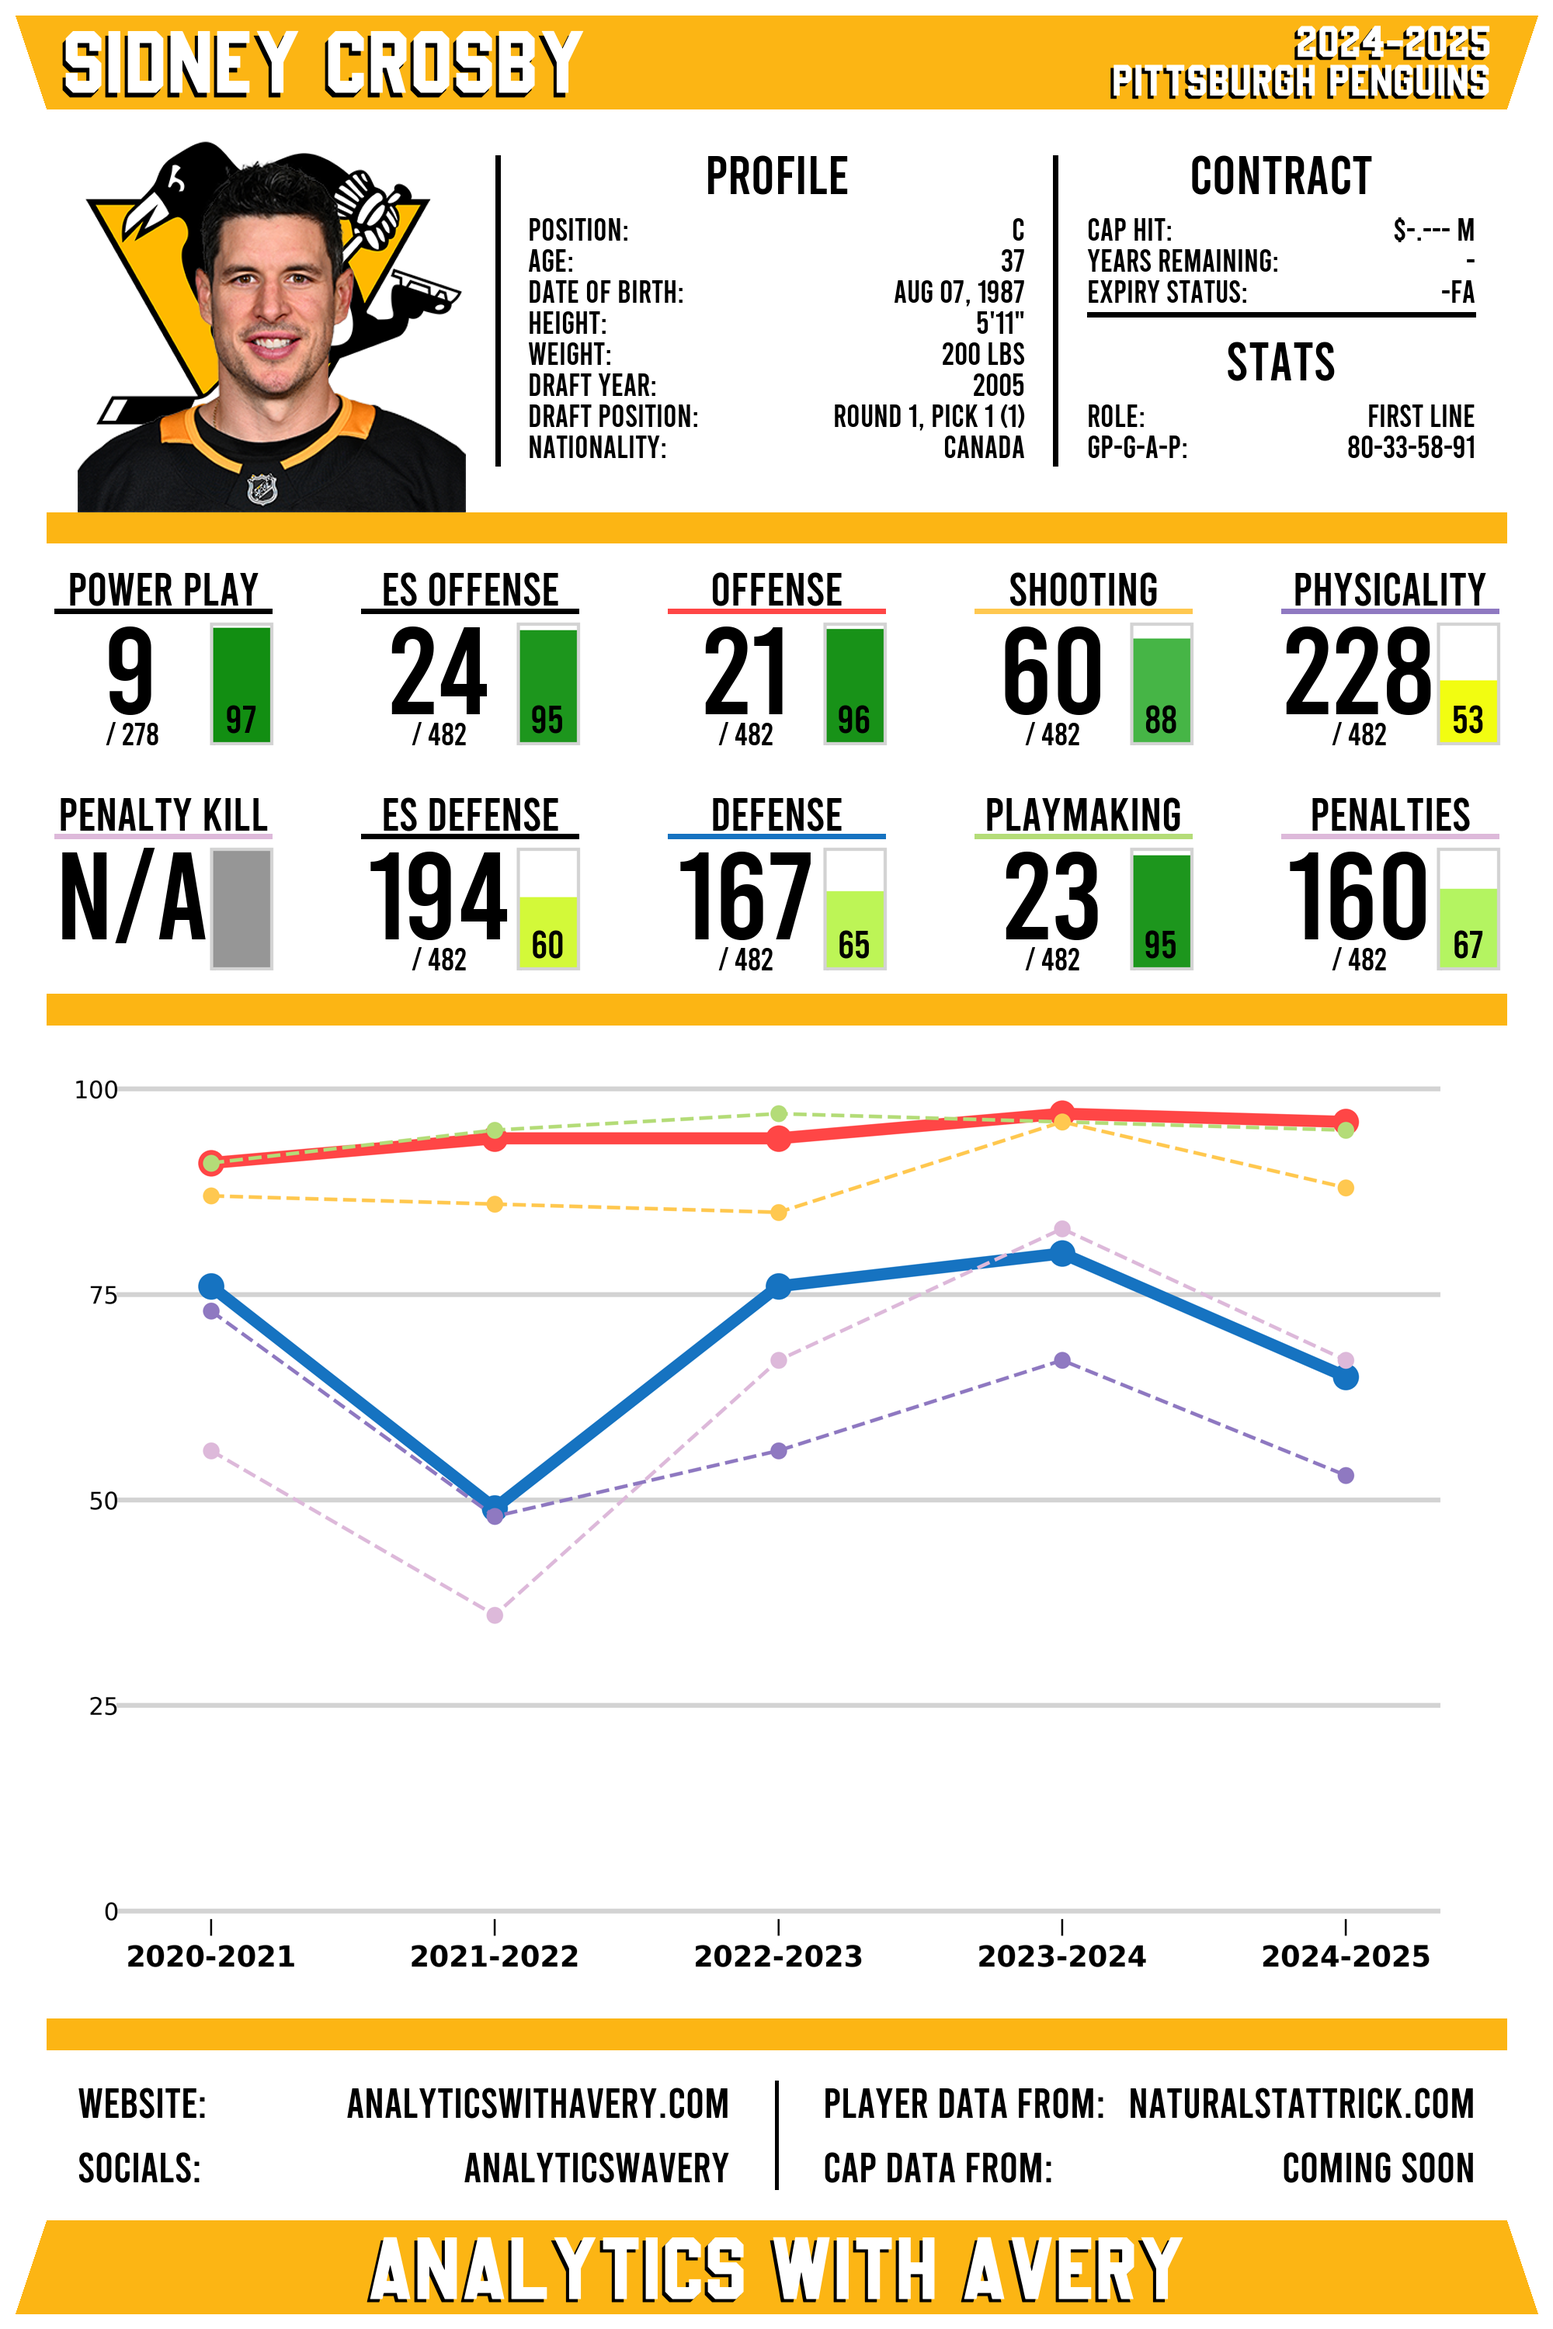
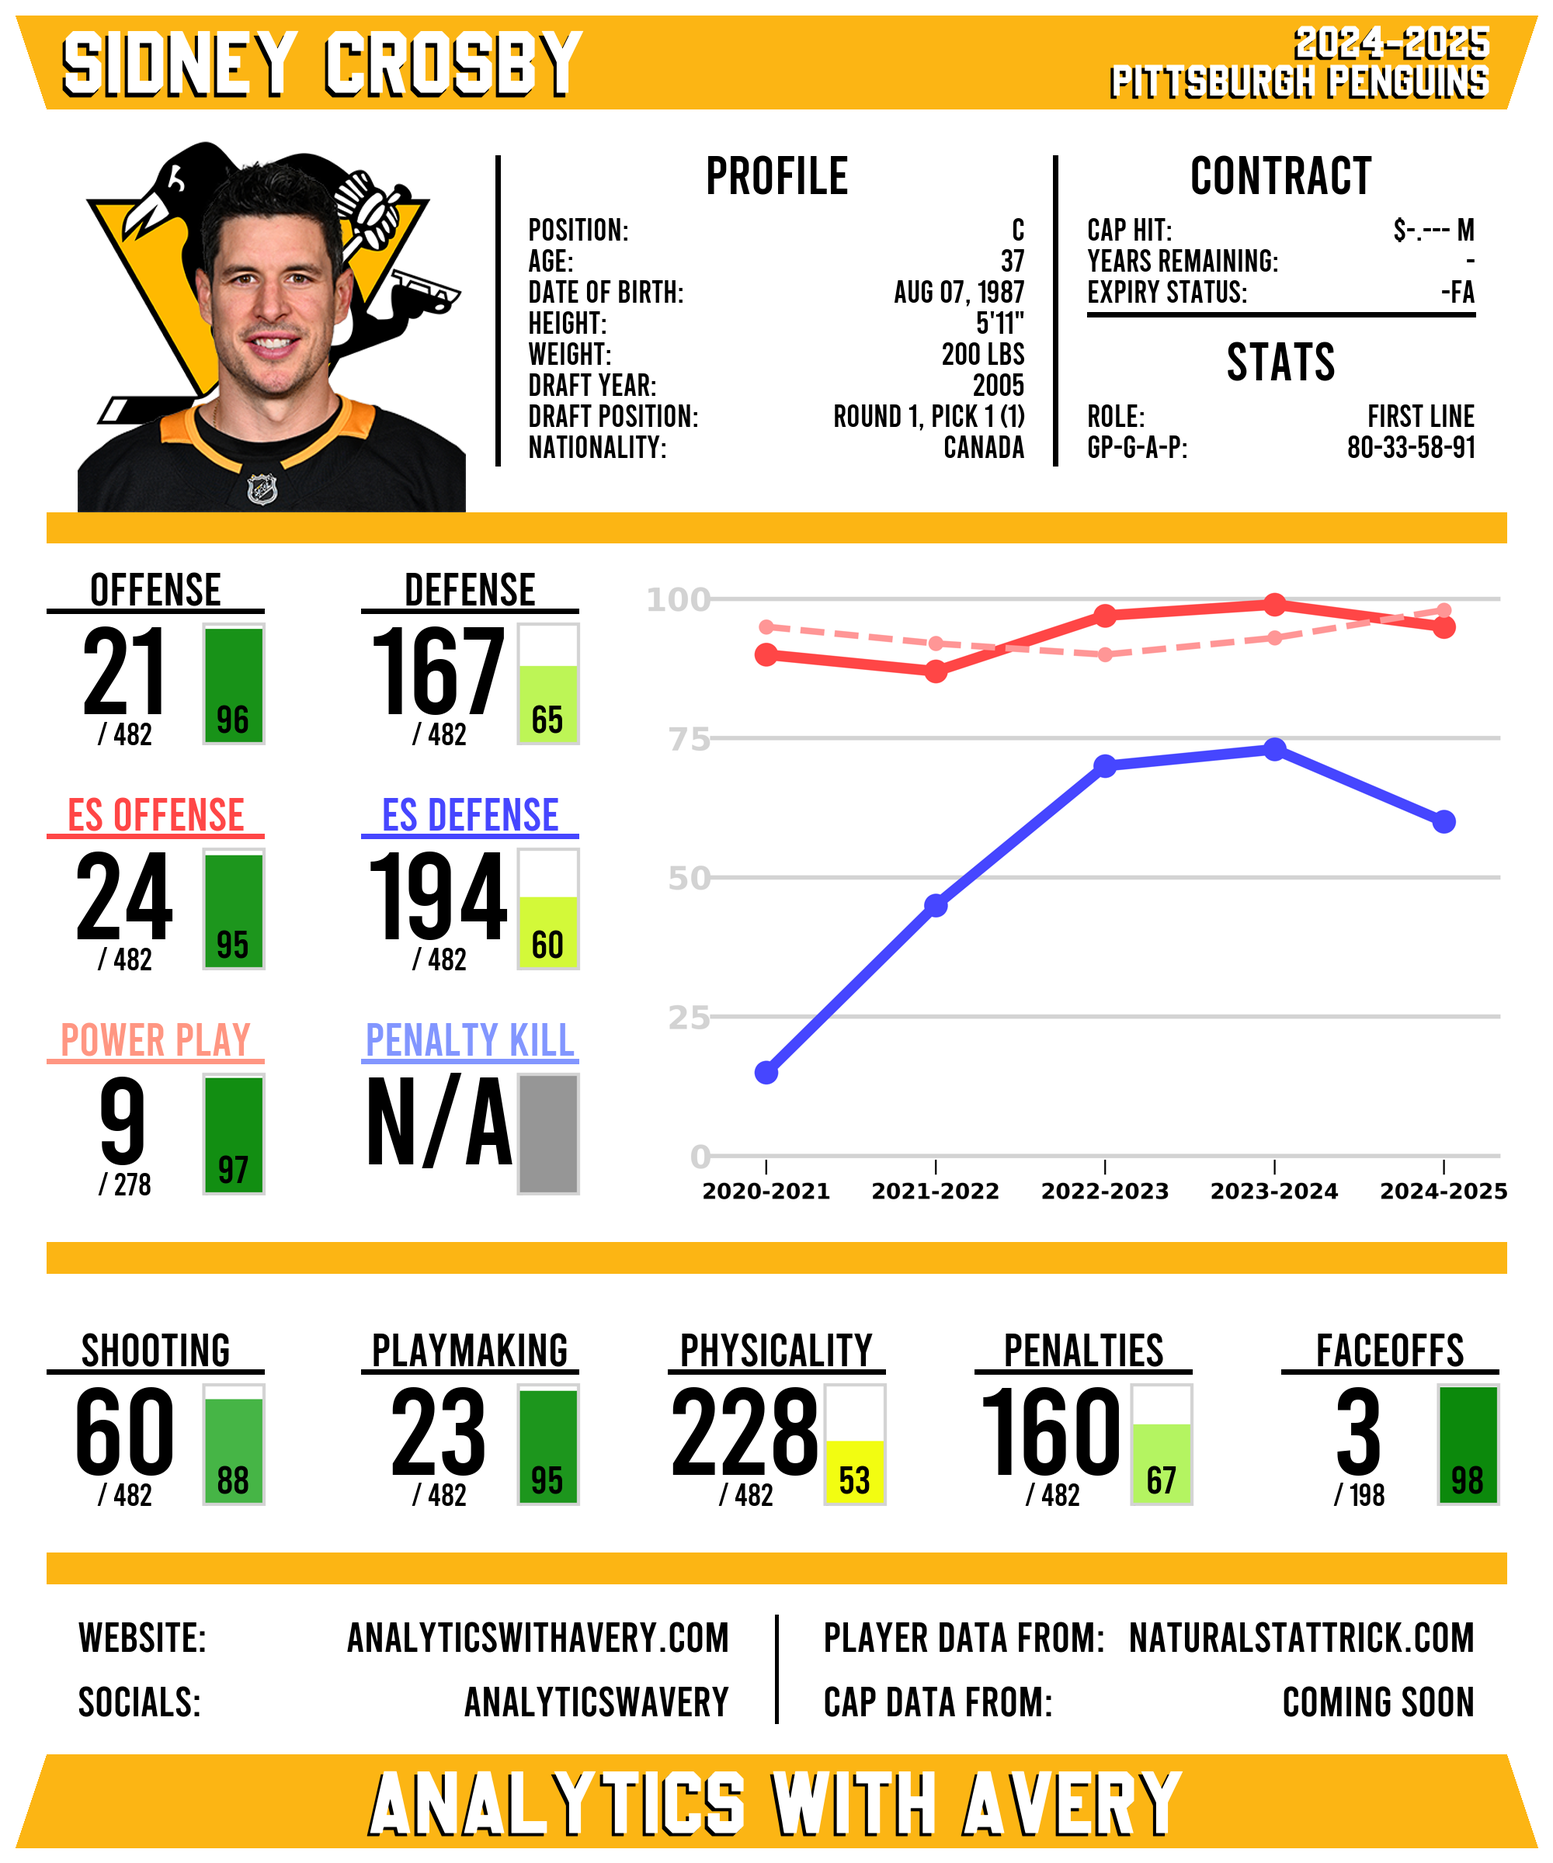
Update card design
Update card size, ranking components (location) and graph component (size, location, and rankings shown)

diff --git a/src/utils/card_functions.py b/src/utils/card_functions.py
@@ -258,7 +258,7 @@ def make_rank_component(player_row: pd.Series, attribute_rank_name: str) -> Imag
     percentile_font = ImageFont.truetype(basic_font_path, 50)
 
     # Draw attribute name, rank, total players, and percentile texts
-    ch.draw_centered_text(draw, attribute_name, attribute_name_font, y_position=0, x_center=150)
+    ch.draw_centered_text(draw, attribute_name, attribute_name_font, fill=attribute_color, y_position=0, x_center=150)
     ch.draw_centered_text(draw, str(rank), rank_font, y_position=40, x_center=110)
     if rank != 'N/A':
         ch.draw_centered_text(draw, f'/ {total_players}', total_players_font, y_position=200, x_center=110)
@@ -268,80 +268,6 @@ def make_rank_component(player_row: pd.Series, attribute_rank_name: str) -> Imag
 
     plt.close()
     
-    return ranking_section
-
-
-def make_ranking_section(player_row: pd.Series, pos: str) -> Image:
-    """
-    Creates the rank section Image for the player card. The rank section contains multiple rank components.
-
-    :param player_row: a Series containing player data
-    :param pos: a str of the first letter of the player's position ('f', 'd', or 'g')
-    :return: an Image of the rank section
-    """
-
-    ranking_section_width = 2000
-    ranking_section_height = 620
-    ranking_section = Image.new("RGB", (ranking_section_width, ranking_section_height), color=(255, 255, 255))
-
-    if pos == 'g':
-        # Add goalie attribute ranking sections
-        evd_rank_section = make_rank_component(player_row, 'ldg_rank')
-        ranking_section.paste(evd_rank_section, (455, 310))
-
-        pkl_rank_section = make_rank_component(player_row, 'mdg_rank')
-        ranking_section.paste(pkl_rank_section, (850, 310))
-
-        phy_rank_section = make_rank_component(player_row, 'hdg_rank')
-        ranking_section.paste(phy_rank_section, (1245, 310))
-
-
-        sht_rank_section = make_rank_component(player_row, 'pkl_rank')
-        ranking_section.paste(sht_rank_section, (1245, 20))
-
-        ppl_rank_section = make_rank_component(player_row, 'evs_rank')
-        ranking_section.paste(ppl_rank_section, (850, 20))
-
-        evo_rank_section = make_rank_component(player_row, 'all_rank')
-        ranking_section.paste(evo_rank_section, (455, 20))
-
-    else:
-        # Add skater attribute ranking sections
-        ppl_rank_section = make_rank_component(player_row, 'ppl_rank')
-        ranking_section.paste(ppl_rank_section, (60, 20))
-
-        pkl_rank_section = make_rank_component(player_row, 'pkl_rank')
-        ranking_section.paste(pkl_rank_section, (60, 310))
-
-    
-        evo_rank_section = make_rank_component(player_row, 'evo_rank')
-        ranking_section.paste(evo_rank_section, (455, 20))
-
-        evd_rank_section = make_rank_component(player_row, 'evd_rank')
-        ranking_section.paste(evd_rank_section, (455, 310))
-        
-
-        off_rank_section = make_rank_component(player_row, 'off_rank')
-        ranking_section.paste(off_rank_section, (850, 20))
-
-        def_rank_section = make_rank_component(player_row, 'def_rank')
-        ranking_section.paste(def_rank_section, (850, 310))
-
-
-        sht_rank_section = make_rank_component(player_row, 'sht_rank')
-        ranking_section.paste(sht_rank_section, (1245, 20))
-
-        plm_rank_section = make_rank_component(player_row, 'plm_rank')
-        ranking_section.paste(plm_rank_section, (1245, 310))
-
-
-        phy_rank_section = make_rank_component(player_row, 'phy_rank')
-        ranking_section.paste(phy_rank_section, (1640, 20))
-
-        pen_rank_section = make_rank_component(player_row, 'pen_rank')
-        ranking_section.paste(pen_rank_section, (1640, 310))
-
-
     return ranking_section
 
 
@@ -356,9 +282,12 @@ def make_graph_section(player_multiple_seasons: pd.DataFrame, pos: str) -> Image
     """
 
     # Create graph component card
-    graph_section_width = 2000
-    graph_section_height = 1300
+    graph_section_width = 1180
+    graph_section_height = 860
     graph_section = Image.new("RGB", (graph_section_width, graph_section_height), color=(255, 255, 255))
+
+    draw = ImageDraw.Draw(graph_section)
+    draw.rectangle([(0, 0), (1230, 1000)], fill=(0,0,0))
 
     if pos == 'g':
         attributes_to_plot = ['all', 'pkl', 'evs',]
@@ -375,11 +304,11 @@ def make_graph_section(player_multiple_seasons: pd.DataFrame, pos: str) -> Image
     seasons.reverse()
 
     # Store x-axis positions (fixed for 5 seasons)
-    x_vals = list(range(1, 16, 3))  # Ensures a 5-season timeline
+    x_vals = list(range(1, 16, 3))
 
      # Create the figure with correct size
     plt.style.use('default')
-    fig, ax = plt.subplots(figsize=(2000 / 200, 1280 / 200), dpi=200)
+    fig, ax = plt.subplots(figsize=(graph_section_width / 200, graph_section_height / 200), dpi=200)
 
     # Iterate over attributes
     for attribute_name in attributes_to_plot:
@@ -414,23 +343,26 @@ def make_graph_section(player_multiple_seasons: pd.DataFrame, pos: str) -> Image
     # X-axis settings
     ax.set_xticks(x_vals)
     ax.set_xticklabels(seasons, fontsize=15, fontweight='bold')
-    ax.tick_params(axis='x', labelsize=12, length=7, direction='inout')
+    ax.tick_params(axis='x', labelsize=10, length=7, direction='inout')
     ax.set_xlim(min(x_vals) - 1, max(x_vals) + 1)
 
     # Y-axis settings
     ax.set_yticks([0, 25, 50, 75, 100])
-    ax.set_ylim(-2, 102)
-    ax.tick_params(axis='y', labelsize=10, labelcolor='black', length=0, pad=-1)
+    ax.set_ylim(-2, 103)
+    ax.tick_params(axis='y', labelsize=15, labelcolor='lightgrey', length=0, pad=-1)
+    ax.set_yticklabels([0, 25, 50, 75, 100], fontsize=15, fontweight='bold', color='lightgrey')
 
     # Grid & Borders
     ax.spines[['top', 'bottom', 'left', 'right']].set_visible(False)
     ax.grid(axis='y', linestyle="-", linewidth=2, color='lightgrey')
     ax.grid(axis='x', visible=False)
 
+    plt.tight_layout()
+
     # Convert plot to image
     graph_img = ch.plot_to_image(fig)
-    graph_img = graph_img.resize((2200, 1430))
-    graph_section.paste(graph_img, (-125, -110))
+    graph_img = graph_img.resize((graph_section_width, graph_section_height))
+    graph_section.paste(graph_img, (0, 0))
 
     plt.close(fig)
 
@@ -526,31 +458,98 @@ def make_player_card(player_name: str, season: str, pos: str) -> None:
         player_cur_season['Team'] = team
         player_header_row['Team'] = team
 
+    # Get primary team color
+    primary_team_color = constants.PRIMARY_COLORS.get(team)
+
     # Create player card
     card_width = 2000
-    card_height = 3000
+    card_height = 2400
     player_card = Image.new('RGB', (card_width, card_height), color=(255, 255, 255))
 
     # Add header section
     header_section = make_header_section(player_header_row)
     player_card.paste(header_section, (0, 0))
 
-    # Add ranking section
-    ranking_section = make_ranking_section(player_cur_season, pos)
-    player_card.paste(ranking_section, (0, 700))
+    # For skater cards
+    if pos == 'f':
+        # Add offense and defense ranks
+        off_rank_section = make_rank_component(player_cur_season, 'off_rank')
+        player_card.paste(off_rank_section, (50, 720))
 
-    # Add graph section
-    graph_section = make_graph_section(player_five_seasons, pos)
-    player_card.paste(graph_section, (0, 1320))
+        def_rank_section = make_rank_component(player_cur_season, 'def_rank')
+        player_card.paste(def_rank_section, (455, 720))
+    
+        evo_rank_secition = make_rank_component(player_cur_season, 'evo_rank')
+        player_card.paste(evo_rank_secition, (50, 1010))
+
+        evd_rank_secition = make_rank_component(player_cur_season, 'evd_rank')
+        player_card.paste(evd_rank_secition, (455, 1010))
+
+        ppl_rank_secition = make_rank_component(player_cur_season, 'ppl_rank')
+        player_card.paste(ppl_rank_secition, (50, 1300))
+
+        pkl_rank_secition = make_rank_component(player_cur_season, 'pkl_rank')
+        player_card.paste(pkl_rank_secition, (455, 1300))
+
+        # Add graph section
+        graph_section = make_graph_section(player_five_seasons, pos)
+        player_card.paste(graph_section, (800, 720))
+
+        # Draw divider rectangle
+        draw = ImageDraw.Draw(player_card)
+        draw.rectangle([(60, 1600), (1940, 1640)], fill=primary_team_color)
+
+        # Add skills ranks
+        sht_rank_section = make_rank_component(player_cur_season, 'sht_rank')
+        player_card.paste(sht_rank_section, (50, 1700))
+
+        plm_rank_section = make_rank_component(player_cur_season, 'plm_rank')
+        player_card.paste(plm_rank_section, (455, 1700))
+
+        phy_rank_section = make_rank_component(player_cur_season, 'phy_rank')
+        player_card.paste(phy_rank_section, (850, 1700))
+
+        pen_rank_section = make_rank_component(player_cur_season, 'pen_rank')
+        player_card.paste(pen_rank_section, (1245, 1700))
+
+        fof_rank_section = make_rank_component(player_cur_season, 'fof_rank')
+        player_card.paste(fof_rank_section, (1640, 1700))
+
+    # For goalie cards
+    else:
+        # Add overall rankings
+        evo_rank_section = make_rank_component(player_cur_season, 'all_rank')
+        player_card.paste(evo_rank_section, (455, 720))
+
+        ppl_rank_section = make_rank_component(player_cur_season, 'evs_rank')
+        player_card.paste(ppl_rank_section, (455, 1010))
+    
+        sht_rank_section = make_rank_component(player_cur_season, 'pkl_rank')
+        player_card.paste(sht_rank_section, (455, 1300))
+
+        # Add graph section
+        graph_section = make_graph_section(player_five_seasons, pos)
+        player_card.paste(graph_section, (800, 720))
+
+        # Draw divider rectangle
+        draw = ImageDraw.Draw(player_card)
+        draw.rectangle([(60, 1600), (1940, 1640)], fill=primary_team_color)
+
+        # Add danger chances rankings
+        evd_rank_section = make_rank_component(player_cur_season, 'ldg_rank')
+        player_card.paste(evd_rank_section, (455, 1700))
+
+        pkl_rank_section = make_rank_component(player_cur_season, 'mdg_rank')
+        player_card.paste(pkl_rank_section, (850, 1700))
+
+        phy_rank_section = make_rank_component(player_cur_season, 'hdg_rank')
+        player_card.paste(phy_rank_section, (1245, 1700))
+
 
     # Add branding section
     branding_section = make_branding_section(team)
-    player_card.paste(branding_section, (0, 2600))
+    player_card.paste(branding_section, (0, 2000))
 
-    # Draw divider rectangle
-    draw = ImageDraw.Draw(player_card)
-    primary_team_color = constants.PRIMARY_COLORS.get(team)
-    draw.rectangle([(60, 1280), (1940, 1320)], fill=primary_team_color)
 
     # Save card as a PNG in the proper folder (create it if it doesnt exist)
     save_dir = os.path.join(DATA_DIR, 'cards', season,)

diff --git a/src/utils/constants.py b/src/utils/constants.py
@@ -88,9 +88,9 @@ ATRIBUTE_NAMES = {
     'plm_rank' : 'Playmaking',
     'phy_rank' : 'Physicality',
     'pen_rank' : 'Penalties',
-    #'fof_rank' : 'Faceoffs',                   # Might be used in the future
+    'fof_rank' : 'Faceoffs',
     #'spd_rank' : 'Speed',                      # Might be used in the future
-    'all_rank' : 'All Situations',
+    'all_rank' : 'Overall',
     'evs_rank' : 'Ev. Strength',
     'ldg_rank' : 'Low Danger',
     'mdg_rank' : 'Med. Danger',
@@ -137,18 +137,18 @@ SECONDARY_COLORS = {
 ATTRIBUTE_COLORS = {
     'Offense':          (0, 0, 0),
     'Defense':          (0, 0, 0),
-    'ES Offense':       (255, 80, 80),
-    'ES Defense':       (80, 80, 255),
-    'Power Play':       (255, 130, 130),
-    'Penalty Kill':     (130, 130, 255),
+    'ES Offense':       (255, 70, 70),
+    'ES Defense':       (70, 70, 255),
+    'Power Play':       (255, 150, 130),
+    'Penalty Kill':     (130, 150, 255),
     'Shooting':         (0, 0, 0),
     'Playmaking':       (0, 0, 0),
     'Physicality':      (0, 0, 0),
     'Penalties':        (0, 0, 0),
-    #'Faceoffs':        (0, 0, 0),                 # Might be used in the future
+    'Faceoffs':         (0, 0, 0),
     #'Speed':           (0, 0, 0),                 # Might be used in the future
-    'All Situations':   (255, 80, 80),
-    'Ev. Strength':     (255, 130, 130),
+    'Overall':   (255, 70, 70),
+    'Ev. Strength':     (255, 150, 150),
     'Low Danger':       (0, 0, 0),
     'Med. Danger':      (0, 0, 0),
     'High Danger':      (0, 0, 0),
@@ -158,18 +158,18 @@ ATTRIBUTE_COLORS = {
 PLOT_ATTRIBUTE_COLORS = {
     'off_plot': (0/255, 0/255, 0/255),
     'def_plot': (0/255, 0/255, 0/255),
-    'evo_plot': (255/255, 80/255, 80/255),
-    'evd_plot': (80/255, 80/255, 255/255),
-    'ppl_plot': (255/255, 130/255, 130/255),
-    'pkl_plot': (130/255, 130/255, 255/255),
+    'evo_plot': (255/255, 70/255, 70/255),
+    'evd_plot': (70/255, 70/255, 255/255),
+    'ppl_plot': (255/255, 150/255, 150/255),
+    'pkl_plot': (150/255, 150/255, 255/255),
     'sht_plot': (0/255, 0/255, 0/255),
     'plm_plot': (0/255, 0/255, 0/255),
     'phy_plot': (0/255, 0/255, 0/255),
     'pen_plot': (0/255, 0/255, 0/255),
     #'fof_plot': (0/255, 0/255, 0/255),         # Might be used in the future
     #'spd_plot': (0/255, 0/255, 0/255),         # Might be used in the future
-    'all_plot': (255/255, 80/255, 80/255),
-    'evs_plot': (255/255, 130/255, 130/255),
+    'all_plot': (255/255, 70/255, 70/255),
+    'evs_plot': (255/255, 150/255, 150/255),
     'ldg_plot': (0/255, 0/255, 0/255),
     'mdg_plot': (0/255, 0/255, 0/255),
     'hdg_plot': (0/255, 0/255, 0/255)

diff --git a/src/utils/card_data.py b/src/utils/card_data.py
@@ -69,18 +69,16 @@ def get_rank_and_percentile(player_row: pd.Series, attribute_rank_name: str, tot
     :return: a tuple of the player's rank and percentile for the given attribute
     """
 
-    # For player's that do not qualify for certain attributes (power play and penalty kill)
+    # For player's that do not qualify for certain attributes (power play, penalty kill, and faceoffs)
     if attribute_rank_name == "ppl_rank" and player_row['ppl_score'] == -999999:
         rank = 'N/A'
         percentile = 100
     elif attribute_rank_name == "pkl_rank" and player_row['pkl_score'] == -999999:
         rank = 'N/A'
         percentile = 100
-
-    # Faceoff attribute logic - might be used in the future
-    # elif attribute_rank_name == "fof_rank" and player_row['fof_score'] == -999999:
-    #     rank = 'N/A'
-    #     percentile = 100
+    elif attribute_rank_name == "fof_rank" and player_row['fof_score'] == -999999:
+        rank = 'N/A'
+        percentile = 100
     
     # Calculate a player's attribute rank and percentile among total players
     else:
